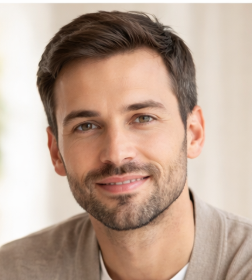
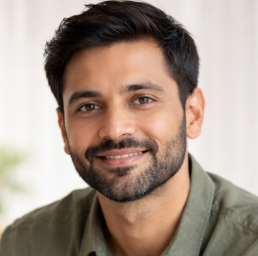
content(safe-space): specialist display names and refreshed headshots
- Names: A. Meera I., R. Dev Mal, Noor Haddad, Arjun S.; align bios
- Replace th1, th2, th4 images in frontend/public and root public

Made-with: Cursor

diff --git a/frontend/src/components/SafeSpace.tsx b/frontend/src/components/SafeSpace.tsx
@@ -4,18 +4,18 @@ import { useState } from 'react';
 
 const experts = [
   {
-    name: 'Dr. Elina Marquez',
-    role: 'Licensed Psychotherapist',
-    speciality: 'Anxiety, Trauma & Emotional Regulation',
-    bio: 'Elina brings over a decade of experience supporting individuals through anxiety, complex trauma, and emotional overwhelm. Her approach blends cognitive behavioral techniques with somatic awareness to help clients regain a sense of safety and control.',
+    name: 'A. Meera I.',
+    role: 'Licensed Clinical Psychologist',
+    speciality: 'Anxiety, Trauma & Emotional Healing',
+    bio: 'With over 11 years of clinical experience, Meera supports individuals dealing with anxiety, trauma, and emotional distress. Her approach combines CBT with mindfulness based techniques to help clients build resilience and regain inner balance.',
     photo: '/img/th1.png',
     color: '#5BB89A',
   },
   {
-    name: 'Aaron Whitfield',
-    role: 'Life & Performance Coach',
-    speciality: 'Burnout, Career Clarity & Life Transitions',
-    bio: 'Aaron works with professionals navigating burnout, career pivots, and high pressure environments. His sessions focus on clarity, sustainable productivity, and aligning personal values with long term goals.',
+    name: 'R. Dev Mal',
+    role: 'Life & Career Coach',
+    speciality: 'Burnout, Career Growth & Life Transitions',
+    bio: 'Dev works with professionals facing burnout and career uncertainty. His coaching focuses on clarity, goal alignment, and building sustainable routines that support both personal and professional growth.',
     photo: '/img/th2.png',
     color: '#C9A962',
   },
@@ -28,10 +28,10 @@ const experts = [
     color: '#7B4FBE',
   },
   {
-    name: 'Daniel Kovacs',
-    role: 'Mindfulness Based Therapist',
-    speciality: 'Stress, Emotional Balance & Resilience',
-    bio: 'Daniel combines mindfulness based therapy with evidence informed practices to help clients manage stress and build emotional resilience. His style is grounded, practical, and deeply client centered.',
+    name: 'Arjun S.',
+    role: 'Mindfulness & Wellness Therapist',
+    speciality: 'Stress Management & Emotional Resilience',
+    bio: 'Arjun integrates mindfulness practices with modern therapeutic techniques to help clients manage stress and improve emotional well being. His style is calm, practical, and focused on long term transformation.',
     photo: '/img/th4.png',
     color: '#1ABFA0',
   },
